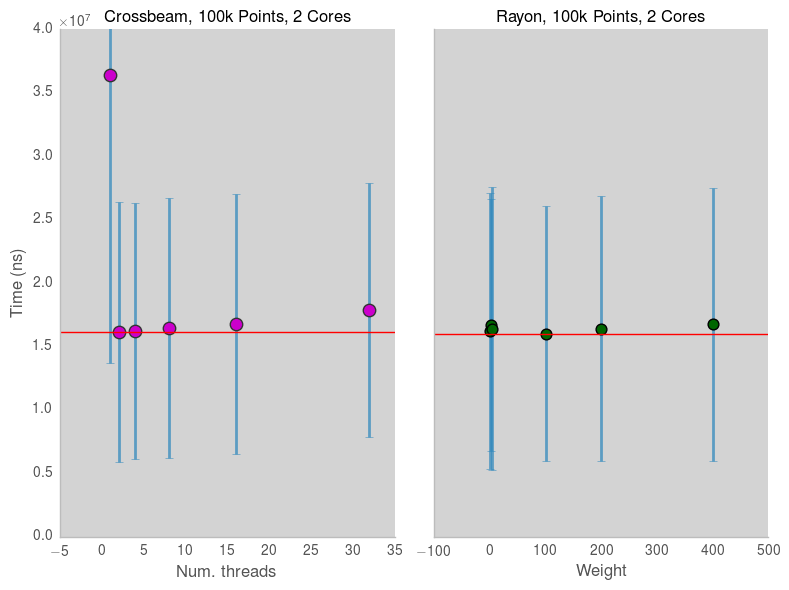
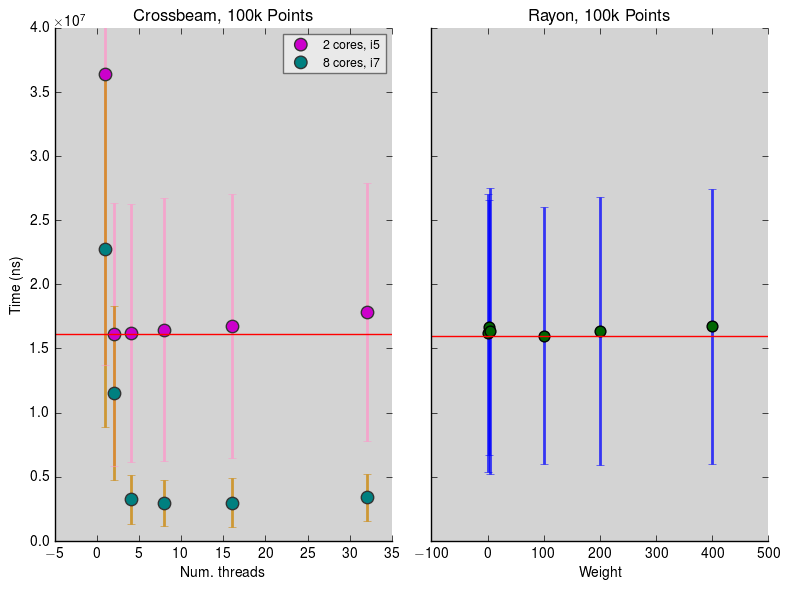
Add 8-core benchmark viz

Changed region(s): [[0.0, 0.0, 1.0, 1.0], [0.6084, 0.0, 0.9125, 0.0611]]

diff --git a/aggregate_bench.py b/aggregate_bench.py
@@ -77,6 +77,6 @@ if __name__ == "__main__":
         filepath="benches/benchmarks.csv",
         idep_var=idep_var,
         num_points=100000,
-        cores=2,
+        cores=8,
         method="crossbeam"
     )
